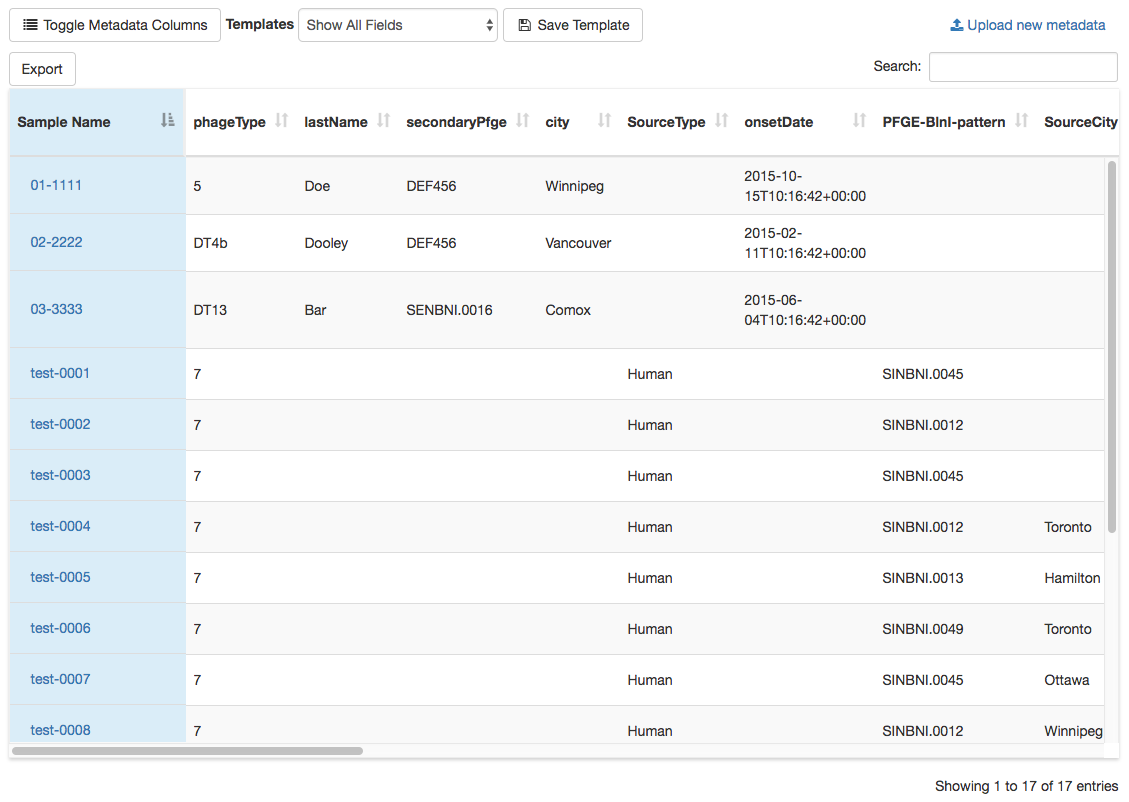
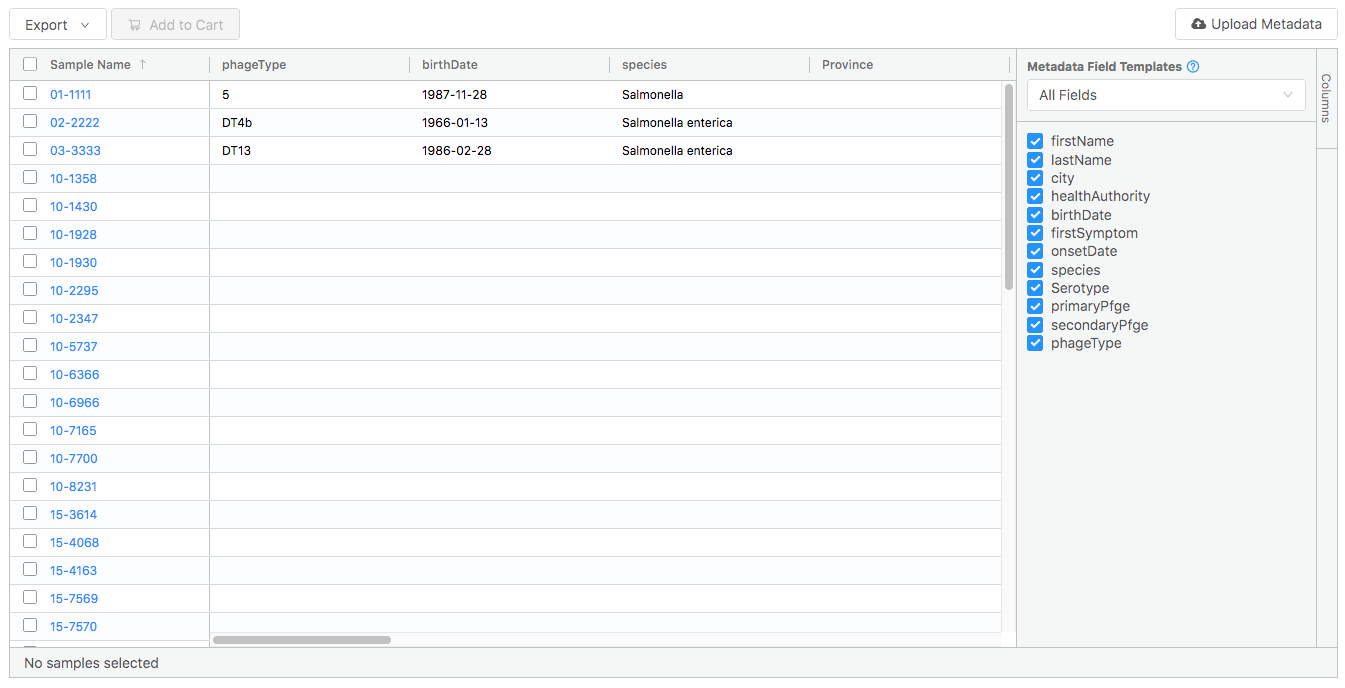
Updated existing docs

diff --git a/doc/user/user/sample-metadata/index.md b/doc/user/user/sample-metadata/index.md
@@ -64,7 +64,7 @@ Metadata that do not have matching sample names are listed in the table `Rows no
 Project Metadata Line List
 --------------------------
 
-Line lists are tables that summarize the available metadata for samples within a project.  Only samples **that have associated metadata** will not be shown in this table.
+A Metadata Line List is a table that summarize the all metadata associated with samples in a project.  
 
 ![Basic Line List](images/linelist_base.png)
 
@@ -76,30 +76,21 @@ To make it easier to see related information, columns can be re-ordered by dragg
 
 ### Toggle Metadata Columns
 
-Some columns might not have information that is useful in a particular analysis.  You can toggle any metadata field by clicking the `Toggle Metadata Columns` button, which will open a side panel where metadata fields can be toggled on and off.
+Some columns might not have information that is useful in a particular analysis.  Columns can be toggled on and off in the right hand side panel of the table.  If the panel is closed, or needs to be opened, click the `Columns` button on the right hand side of the table.
 
-![Line List Metadata Toggle](images/toggle_metadata_button.png)
+![Line List Metadata Toggle](images/toggle_metadata_button.gif)
 
-**Note:** the first column cannot be toggled off directly.  If that field needs to be hidden, drag it to a different column and then toggle the field.
+Columns can be toggled on and off by selecting the checkbox with the column name in it.  If the checkbox is checked, the column will be visible.
 
-![Toggling metadata column](images/toggle_metadata_panel.png)
-
-Once all the column visibility has been set, click the close button at the top of the side panel to hide these options.
-
-![Closing metadata panel by clicking 'close' button](images/metadata_panel_close.png)
+![Line List Toggle Columns using checkbox](images/toggle_metadata_column.gif)
 
 ### Saving Column Order and Visible Metadata
 
 Updating the column order and which metadata is visible can be saved as a **Template** so that the next time the line list is viewed the same settings can be applied quickly.  Click the `Save Template` button which will open a dialog window.  Add a name for the template (this cannot match the name of another template within the project).
 
-![Save Template Dialog](images/linelist_save_template.png)
+![Save Template Dialog](images/linelist_save_template.gif)
 
-The name given to the template should be descriptive and must be more than 5 letters.  The name must also not be used for another template within the project.
-
-A warning is displayed if the name given for the template is too short or if the name is already used for a template within the current project.
-
-After a unique name with more than 5 letters is provided the `Save` button will become enabled.  Clicking it will save the template to the project.
-
+A template can up updated by selecting its name in the dropdown.  The checkbox must be selected stating that the existing template will be overwritten.
 
 After a template is created it can me modified or deleted under [Project Settings > Sample Metadata Templates](../sample-metadata-templates)
 
@@ -107,6 +98,6 @@ After a template is created it can me modified or deleted under [Project Setting
 
 Data can be exported as either Excel or CSV formats.  Ony the fields currently in the table will be exported.
 
-Clicking on the `Export` button which will reveal a dropdown where you can select from either `CSV` or `Excel`, the download will begin automatically.
+Hovering over the `Export` button which will reveal a dropdown where you can select from either `Export as Excel` or `Export as CSV`, the download will begin automatically.
 
-![Export Buttons](images/export_btns.png)
+![Export Buttons](images/linelist_export.gif)
